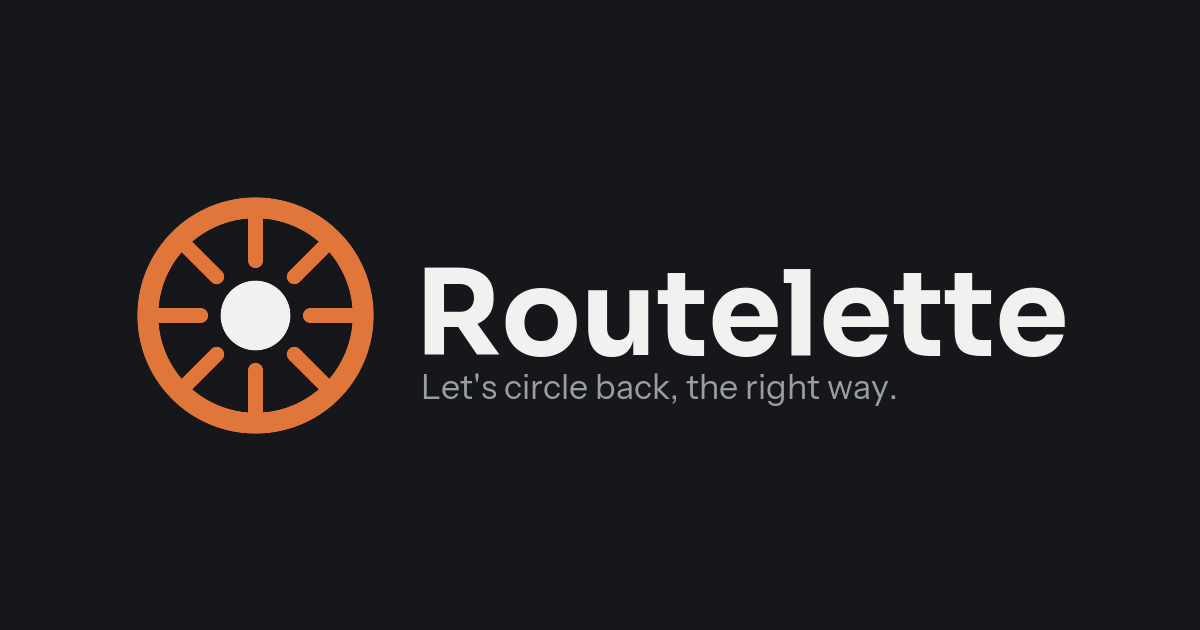
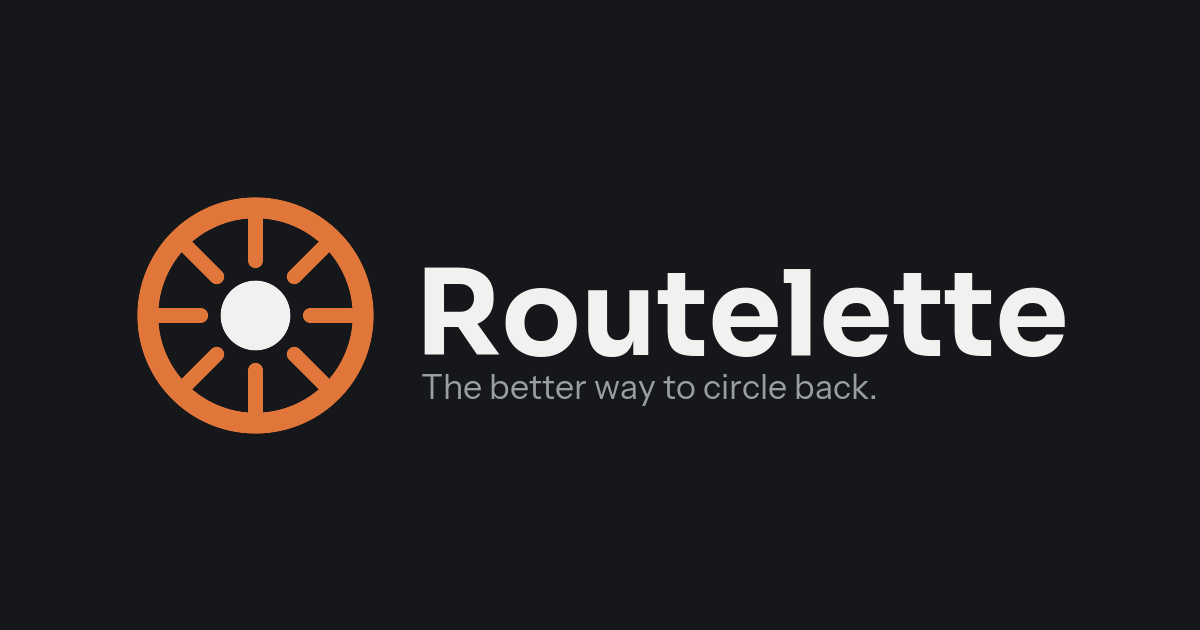
replace cringe tagline

Changed region(s): [[0.3392, 0.573, 0.74, 0.6333]]

diff --git a/app/app.vue b/app/app.vue
@@ -19,7 +19,7 @@ useSeoMeta({
   ogImage: socialImage,
   ogImageWidth: 1200,
   ogImageHeight: 630,
-  ogImageAlt: "Routelette: Let's circle back, the right way.",
+  ogImageAlt: "Routelette: The better way to circle back.",
   twitterImage: socialImage,
 })
 const fixtureMode = config.public.fixtureMode === true || String(config.public.fixtureMode) === 'true'

diff --git a/README.md b/README.md
@@ -1,5 +1,5 @@
 <p align="center">
-  <img src="public/brand/social-preview.png" alt="Routelette: Let's circle back, the right way.">
+  <img src="public/brand/social-preview.png" alt="Routelette: The better way to circle back.">
 </p>
 
 # Routelette
